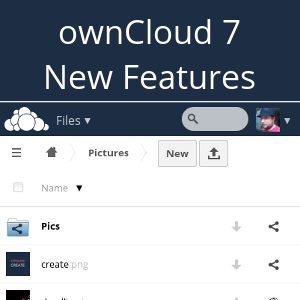
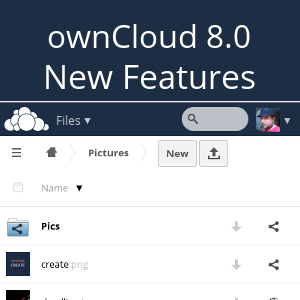
Update press page

Changed region(s): [[0.15, 0.06, 0.84, 0.18]]

diff --git a/page-press.php b/page-press.php
@@ -1,22 +1,22 @@
 <?php get_template_part('templates/parts/title'); ?>
-<h2>Current Release Information <small>Version 7.0</small></h2>
-<a target="_blank" href="https://owncloud.com/get-public-cloud-flexibility-files-self-hosted-owncloud-7-community-edition-2-2/" class="btn btn-lg btn-default">Announcement</a>
-<a href="/features" class="btn btn-lg btn-default">Key Features</a>
-<a href="/install" class="btn btn-lg btn-default">Download ownCloud 7</a>
+<h2>Current Release Information <small>Version 8.0</small></h2>
+<a target="_blank" href="https://owncloud.org/blog/owncloud-server-8-0-released" class="btn btn-lg btn-default">Announcement</a>
+<a href="/features" class="btn btn-lg btn-default">Key Features of ownCloud</a>
+<a href="/install" class="btn btn-lg btn-default">Download ownCloud Server 8.0</a>
 <h2>Latest News and Annoucements</h2>
 <?php wp_get_archives( array( 'type' => 'postbypost', 'limit' => 5, 'format' => 'html' ) ); ?>
 <h2>ownCloud Resources</h2>
 <div class="row">
-	<div class="col-md-3"><a href="https://github.com/owncloud/screenshots/archive/stable7.zip"><img src="<?php echo get_template_directory_uri(); ?>/assets/img/screenshots/screenshots.png" 
+	<div class="col-md-3"><a href="https://github.com/owncloud/screenshots/archive/stable8-0.zip"><img src="<?php echo get_template_directory_uri(); ?>/assets/img/screenshots/screenshots.png"
 		style="width: 100%" alt="Download a zip file with screenshots" class="img-thumbnail"></a></div>
-	<div class="col-md-3"><a href="<?php echo get_template_directory_uri(); ?>/assets/files/Logo_files.zip"><img src="<?php echo get_template_directory_uri(); ?>/assets/img/screenshots/logofiles.png" 
+	<div class="col-md-3"><a href="<?php echo get_template_directory_uri(); ?>/assets/files/Logo_files.zip"><img src="<?php echo get_template_directory_uri(); ?>/assets/img/screenshots/logofiles.png"
 		style="width: 100%" alt="Download a zip file with logo files" class="img-thumbnail"></a></div>
 	<div class="col-md-3"><a href="http://www.youtube.com/ownclouders"><img src="<?php echo get_template_directory_uri(); ?>/assets/img/screenshots/youtube.png" style="width: 100%" 
 		alt="View the ownCloud community youtube channel" class="img-thumbnail"></a></div>
-	<div class="col-md-3"><a href="/seven"><img src="<?php echo get_template_directory_uri(); ?>/assets/img/screenshots/newfeatures.png" style="width: 100%" alt="See what is new in ownCloud 7" 
+	<div class="col-md-3"><a href="/8-0"><img src="<?php echo get_template_directory_uri(); ?>/assets/img/screenshots/newfeatures.png" style="width: 100%" alt="See what is new in ownCloud Server 8.0"
 		class="img-thumbnail"></a></div>
 </div>
 <h2>Branding Guidelines</h2>
 <p>Find up to date guidelines and other graphical resources in our <a href="https://github.com/owncloud/promo">promo github account</a>.</p>
 <h2>Inquiries</h2>
-<p>For press inquiries, please contact <a href="mailto:pr@owncloud.com" target="_blank">Joseph Eckert</a>.<p>
+<p>For press inquiries, please contact <a href="mailto:pr@owncloud.com" target="_blank">Claudine Bianchi</a>.<p>
